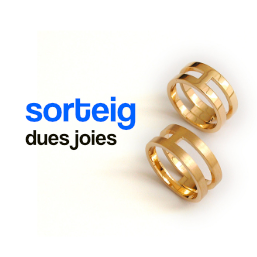
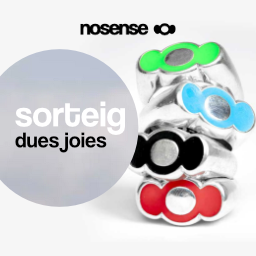
Multiple design updates
- Added La Vanguardia button
- Added Nosense business
- Added back storymakers card to businesses
- Updated reward image

diff --git a/storymakers/src/app/page.tsx b/storymakers/src/app/page.tsx
@@ -41,22 +41,8 @@ export default function Home() {
                     </div>
                 </div>
                 {/* |||||||||||||||||||||||||||||||||| REPTES |||||||||||||||||||||||||||||||||| */}
-                <h1 className="text-6xl font-bold mt-60 mb-10 text-[#FF4A00]">Reptes</h1>
+                <h1 className="text-6xl font-bold mt-60 mb-10 text-[#F57712]">Repte</h1>
                 <div className="banner-container bg-[url('../../public/orange-reel.png')]">
-                    <div className="flip-card">
-                        <div className="flip-card-inner">
-                            <div className="flip-card-front bg-[url('../../public/tedx2024-challenge.png')]"></div>
-                            <div
-                                className="flip-card-back bg-[url('../../public/tedx2024-challenge-rewards-ca.png')]"></div>
-                        </div>
-                    </div>
-                    <div className="flip-card">
-                        <div className="flip-card-inner">
-                            <div className="flip-card-front bg-[url('../../public/tedx2024-challenge.png')]"></div>
-                            <div
-                                className="flip-card-back bg-[url('../../public/tedx2024-challenge-rewards-ca.png')]"></div>
-                        </div>
-                    </div>
                     <div className="flip-card">
                         <div className="flip-card-inner">
                             <div className="flip-card-front bg-[url('../../public/tedx2024-challenge.png')]"></div>
@@ -66,31 +52,29 @@ export default function Home() {
                     </div>
                 </div>
                 {/* |||||||||||||||||||||||||||||||||| MARQUES |||||||||||||||||||||||||||||||||| */}
-                <h1 className="text-6xl font-bold mt-20 mb-10 text-[#0035FF]">Marques</h1>
+                <h1 className="text-6xl font-bold mt-20 mb-10 text-[#0059A6]">Marques</h1>
                 <div className="banner-container bg-[url('../../public/blue-reel.png')]">
+                    <a href={"https://www.lavanguardia.com/economia/innovacion/20240408/9590083/tedxupfmataro-busca-inspirar-jovenes-universitarios-empresas-e-startups-septima-edicion-tecnocampus-brl.html"} target="_blank">
+                        <div className="flip-card">
+                            <div className="flip-card-inner">
+                                <div className="flip-card-front bg-[url('../../public/vanguardia-business.png')]"></div>
+                                <div className="flip-card-back bg-[url('../../public/tedx-back-card.png')]"></div>
+                            </div>
+                        </div>
+                    </a>
                     <div className="flip-card">
                         <div className="flip-card-inner">
                             <div className="flip-card-front bg-[url('../../public/tedx-business.png')]"></div>
-                            <div
-                                className="flip-card-back bg-[url('../../public/tedx2024-challenge-rewards-ca.png')]"></div>
+                            <div className="flip-card-back bg-[url('../../public/storymakers-back-card.png')]"></div>
                         </div>
                     </div>
                     <div className="flip-card">
                         <div className="flip-card-inner">
-                            <div className="flip-card-front bg-[url('../../public/tedx-business.png')]"></div>
-                            <div
-                                className="flip-card-back bg-[url('../../public/tedx2024-challenge-rewards-ca.png')]"></div>
-                        </div>
-                    </div>
-                    <div className="flip-card">
-                        <div className="flip-card-inner">
-                            <div className="flip-card-front bg-[url('../../public/tedx-business.png')]"></div>
-                            <div
-                                className="flip-card-back bg-[url('../../public/tedx2024-challenge-rewards-ca.png')]"></div>
+                            <div className="flip-card-front bg-[url('../../public/nosense-business.png')]"></div>
+                            <div className="flip-card-back bg-[url('../../public/storymakers-back-card.png')]"></div>
                         </div>
                     </div>
                 </div>
-                <div className="footer-image"></div>
             </main>
         </Layout>
     );

diff --git a/storymakers/src/app/globals.css b/storymakers/src/app/globals.css
@@ -3,9 +3,9 @@
 @tailwind utilities;
 
 :root {
-  --foreground-rgb: 10, 5, 40;
-  --background-start-rgb: 220, 254, 255;
-  --background-end-rgb: 249, 236, 255;
+  --foreground-rgb: 255, 255, 255; /* old: 10, 5, 40 */
+  --background-start-rgb: 255, 255, 255;  /* old: 220, 254, 255 */
+  --background-end-rgb: 255, 255, 255; /* old: 249, 236, 255 */
 }
 
 @layer utilities {
